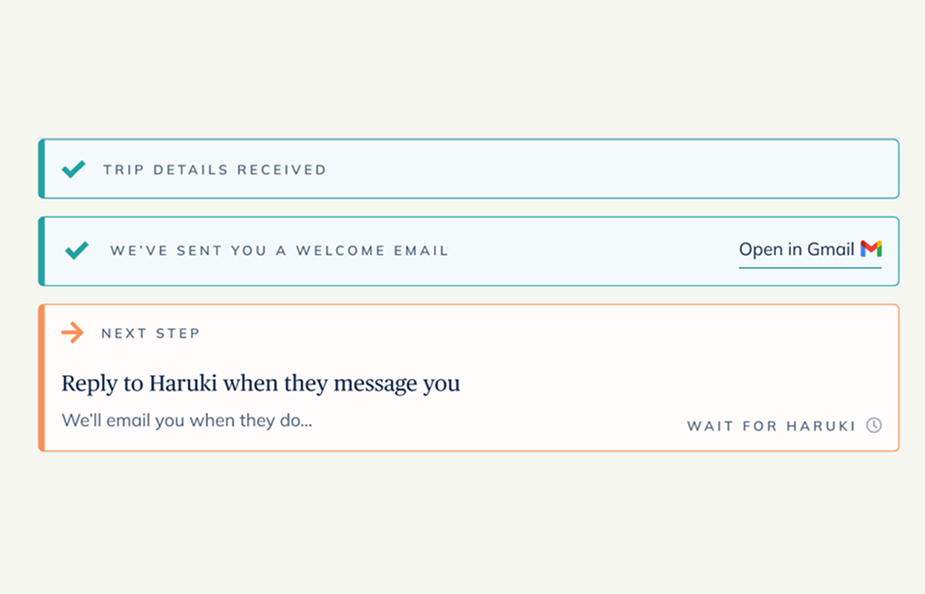
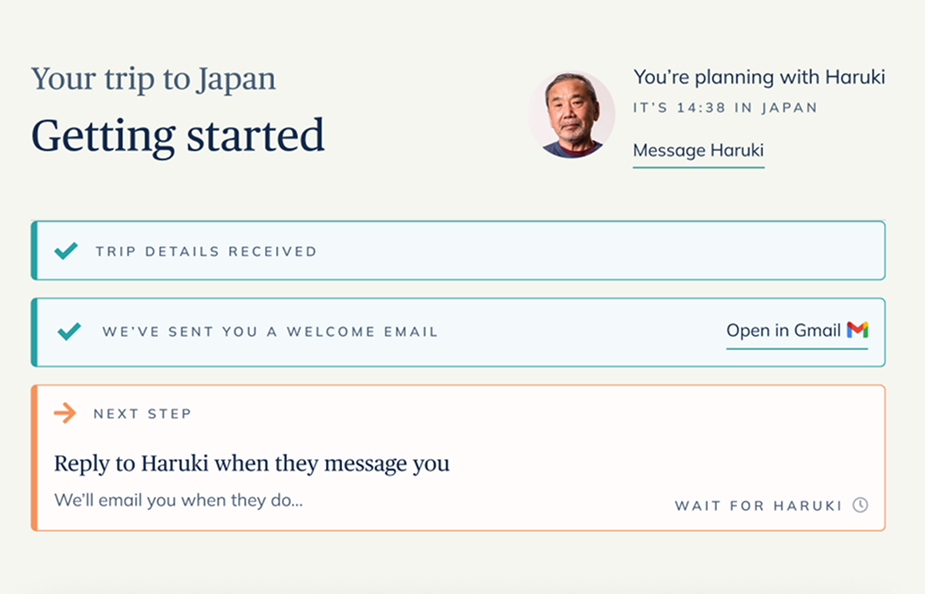
Nearly there

diff --git a/src/content/work/onboarding-and-expectation-setting.md b/src/content/work/onboarding-and-expectation-setting.md
@@ -2,10 +2,10 @@
 metaTitle: 'Onboarding and expectation setting'
 metaDescription: 'An ambitious project to help instigate engaging conversations between customers and local experts, getting them off to a positive start and setting the customer up for success.'
 title: 'Increasing user engagement through clear onboarding and expectation setting'
-cover: ''
-coverAlt: ''
+cover: './onboarding-hero.png'
+coverAlt: 'Mobile designs for a new onboarding experience'
 intro: |
-  If you want to travel to Japan (for example), TravelLocal connects you with a local travel expert right there in Tokyo to plan your trip. At its best you make a personal connection with someone local and have a more authentic travel experience. However when that conversation doesn’t get off to a good start and customers go quiet, the local expert is left feeling disengaged and the customer underserved.
+  Say you're planning a trip somewhere, Japan for example. TravelLocal would connect you with a local travel expert right there in Tokyo to plan your trip. At its best you make a personal connection with someone local and have a more authentic travel experience. However when that conversation doesn’t get off to a good start and customers go quiet, the local expert is left feeling disengaged and the customer underserved.
   
   I lead product design in an ambitious project to help instigate engaging conversations between customers and local experts, getting them off to a positive start and setting the customer up for success.
 introPreheading: 'Challenge'
@@ -44,84 +44,98 @@ takeaways: [
 
 ## Business challenge and North Star
 
-As TravelLocal’s acquisition model matured and more users were finding them, so did the amount of customers submitting their travel preferences and thus getting connected with a local expert. The expert then kicks off the conversation by messaging customers manually via the TravelLocal platform.
+As TravelLocal’s acquisition model matured and more travellers were finding them, so did the amount of customers submitting their travel preferences and thus getting connected with a local expert. The expert then kicks off the conversation by messaging customers manually via the TravelLocal platform.
 
-<mark>I defined this customer - local expert connection as the first major milestone in the high-level customer journey and therefore of key importance.</mark>
+<mark>The first step was to understand this customer - local expert connection as the first major milestone in the high-level customer journey and therefore of key importance.</mark>
 
 ![The first major milestone in the high-level customer journey](./onboarding-milestone.png)
 *The first major milestone in the high-level customer journey*
 
 Working with the Head of Product we defined an important dynamic at the heart of TravelLocal’s customer experience. Because the local expert is a real person with limited time and energy, unlike traditional SasS products TravelLocal can’t onboard limitless customers if they’re inactive. Local experts would frankly waste their time and the partnerships would strain. <mark>Improving top-of-funnel acquisition rates alone would not be enough to scale the company sustainably - the customer engagement rate needed to increase.</mark>
 
-🌟 Our North Star objective was to increase the percentage of customers who sent three messages to their local expert
+🌟 <mark>We set our North Star objective as increasing this engagement rate.</mark>
 
 We chose to measure engagement as the point where a customer sent three messages. Analysing request data revealed a significant increase in the propensity to book when a customer had sent three customer messages. This represented some meaningful engagement above just an exchanging of pleasantries.
 
 We defined two main guardrails…
-1. Increase the engagement rate without reducing the number of connected customers.
+1. Increase the engagement rate _without_ reducing the number of connected customers - the most sensitive of company metrics.
 2. Focus our work on product design more so than service design which, although impactful, was out of scope at the time.
 
 ## Discovering why customers go quiet
-My first goal was to understand why customers weren’t replying to local experts.
+<mark>My first goal was to understand why customers weren’t replying to local experts.</mark>
 
-Initial sanity check investigations with product managers and engineers ruled out technical errors; customers were technically able to send a successful message, no problems there.
+Initial sanity check investigations with product managers and engineers ruled out technical errors; customers were technically able to send successful messages, so no problems there.
 
-Ideally I’d have been able to speak with inactive customers to ask why they hadn’t responded. Of course, by definition of them being unengaged that’s a dead end, so I needed to find answers in the user experience leading up to the moment of inactivity.
+Ideally I’d have been able to speak with inactive customers to ask why they hadn’t responded. Of course, by definition of them being unengaged that’s a dead end, so I needed to find answers higher up the funnel in the user experience leading to the moment of inactivity.
 
 <mark>I held qualitative user research sessions with 5 participants who were new to TravelLocal.</mark> I observed them moving through the current onboarding process asking questions as we went. My goal was to better understand their motivations, feelings and uncertainties.
 
-![Holding a user research session with a customer](./onboarding-amanda.png)
-*Holding a user research session with a customer*
+![Holding a user research session with a customer, going through the current flow](./onboarding-amanda.png)
+*Holding a user research session with a customer, going through the current flow*
 
 Using the Atomic Research model for recording UX learnings I broke customer feedback down into its constituent parts; experiments, facts, insights and conclusions. These were recorded, tagged and organised in our research repository for future discoverability.
 
-### Customer insights from the current experience
+### Customer insights
 
 <ul class="customer-insights">
   <li class="customer-insight">
-    <p class="title">Uncertainty of what happened and next step</p>
+    <p class="title">😕 Uncertainty of what happened and next step</p>
     <p class="quote">"Is that it? What do I do now?"</p>
-    <p class="summary">Customers didn’t understand what happened and what they needed to do next. They were left feeling underwhelmed and uncertain.</p>
+    <p class="summary">Customers didn’t understand what happened and what they needed to do next. They were left feeling underwhelmed and uncertain. This decreased user motivation right from the start.</p>
   </li>
   <li class="customer-insight">
-    <p class="title">Identity of the person contacting them</p>
-    <p class="quote">“I presume the TravelLocal person in the photo will contact me”</p>
-    <p class="summary">Customers were uncertain who was going to contact them and why. They wrongly presumed it would be someone from TravelLocal and so missed the value proposition of the local experts.</p>
+    <p class="title">🕵♀ Identity of the person contacting them</p>
+    <p class="quote">"I presume the TravelLocal person in the photo will contact me"</p>
+    <p class="summary">Customers were uncertain who was going to contact them and why, leading to mistrust the process. They wrongly presumed it would be someone from TravelLocal and so missed the value proposition of the local experts. When they did get it, that was the "ah-ha" moment.</p>
   </li>
   <li class="customer-insight">
-    <p class="title">Method of communication</p>
-    <p class="quote">“How will they contact me? Will they email or phone?”</p>
-    <p class="summary">Customers weren’t sure how they’d be contacted which added to the uncertainty of what to expect next and decreased trust in the process.</p>
+    <p class="title">📢 Method of communication</p>
+    <p class="quote">"How will they contact me? Will I get an email?"</p>
+    <p class="summary">Customers weren’t sure how they’d be contacted which added to the uncertainty of what to expect next, decreasing trust and motivation.</p>
   </li>
   <li class="customer-insight">
-    <p class="title">Timing of communication</p>
-    <p class="quote">“When will they call? Timing is everything”</p>
+    <p class="title">🕑 Timing of communication</p>
+    <p class="quote">"When will they call? Timing is everything"</p>
     <p class="summary">Customers didn’t understand when they’d be contacted and had expectations of it being quick. Some were anxious if it would be a suitable time or not.</p>
   </li>
 </ul>
 
-I shared these insights with the wider team and company, both in write-ups, Miro boards and video clips of the research sessions so team members could engage with the level of detail they needed to. Being able to show company leadership these customers actually reacting to the product played a huge role in aligning teams internally.
+I shared these insights with the wider team and company, both in write-ups, Miro boards and video clips so team members could engage with the level of detail they needed to. Being able to show company leadership these customers actually reacting to the product played a huge role in aligning teams internally.
 
 ## Reviewing the current experience
 We’d inherited this user experience during the company’s merger a couple of years previous so I was keen to apply a critical eye using what I knew from previous customer research as well as the updated brand, market offering and product vision.
 
 Here's the old confirmation page, as it was before my work on the project...
 
-<iframe src="https://embed.figma.com/proto/XnQlWbxcx4PVAVtMA74uIM/simseneca.design?page-id=0%3A1&node-id=1292-1120&viewport=-1953%2C138%2C0.29&scaling=scale-down-width&content-scaling=fixed&starting-point-node-id=1292%3A1120&embed-host=share" allowfullscreen></iframe>
+<iframe src="https://embed.figma.com/proto/XnQlWbxcx4PVAVtMA74uIM/simseneca.design?page-id=0%3A1&node-id=1292-1120&viewport=-1953%2C138%2C0.29&scaling=scale-down-width&content-scaling=fixed&starting-point-node-id=1292%3A1120&embed-host=share&hide-ui=1"></iframe>
 
 There were many improvement opportunities just by applying good UX and design principles, but those aside <mark>I defined a few broad, key themes for improvement.</mark>
 
-1. **Buried progress confirmation and next steps:** The page was at the end of a stepped form flow but visually didn’t change much to communicate its completion. The next steps were unclear, with the customer having to infer and presume them rather than them being explicit.
-2. **Unclear hierarchy of information:** It was unclear what the customer should take most notice of. All information seemed equally important with a lack of signposting.
-3. **Lack of visibility of the local expert:** The inclusion of Hayley, a TravelLocal employee, meant that it’s TravelLocal who are the most visible, not the local expert who the customer will actually be speaking with.
-4. **Uninspiring success moment:** This is the first major milestone in the TravelLocal customer experience and should be the point at which customer enthusiasm is high. Other than one exclamation mark there’s nothing to celebrate this moment and it's generally visually uninspiring.
+<ol class="customer-insights">
+  <li class="customer-insight">
+    <p class="title">🔍 Buried progress confirmation and next steps</p>
+    <p class="summary">The page was at the end of a stepped form flow but visually didn’t change much to communicate its completion. The next steps were unclear, with the customer having to infer and presume them rather than them being explicit.</p>
+  </li>
+  <li class="customer-insight">
+    <p class="title">🪧 Unclear hierarchy of information</p>
+    <p class="summary">It was unclear what the customer should take most notice of. All information seemed equally important with a lack of signposting.</p>
+  </li>
+  <li class="customer-insight">
+    <p class="title">🥸 Lack of visibility of the local expert</p>
+    <p class="summary">The inclusion of Hayley, a TravelLocal employee, meant that it’s TravelLocal who are the most visible, not the local expert who the customer will actually be speaking with.</p>
+  </li>
+  <li class="customer-insight">
+    <p class="title">🤷♀ Uninspiring success moment</p>
+    <p class="summary">This should be a super high point of customer enthusiasm. Other than one exclamation mark there’s nothing to celebrate this moment and it's generally visually uninspiring. This isn't getting me excited about my trip!</p>
+  </li>
+</ol>
 
 ## Hitting a local maximum
 As the project progressed and internal conversations continued it became clear that there was an opportunity for bigger change. The company, its design maturity, brand and tech stack had taken huge steps forward in the years since the current experience had been built and it all needed realigning.
 
 Whilst often a riskier approach best avoided, <mark>the team decided that strategically now was the time to make some broader changes</mark>, allowing us to establish a better foundation from which to make future improvements.
 
-Leading product design through a company merger where we inherited legacy user experiences has often prompted the question “are we at a local maximum?” <mark>I’ve been heavily involved in balancing evolution and revolution</mark> and have helped guide that process through highlighting user insights, bringing a fresh perspective and applying the long view to the product vision.
+Leading product design through a company merger where we inherited legacy user experiences has often prompted the question "are we at a local maximum?" <mark>I’ve been heavily involved in balancing evolution and revolution</mark> and have helped guide that process through highlighting user insights, bringing a fresh perspective and applying the long view to the product vision.
 
 ### De-risking for launch
 <mark>With a larger change it was important to de-risk the launch.</mark> We would do this in a few ways.
@@ -133,7 +147,7 @@ Leading product design through a company merger where we inherited legacy user e
 5. Work fast to retain a positive impact/effort outcome
 
 ## Turning problems into solutions
-<mark>Moving into the solution space meant turning customer insights into problem statements, then turning them on their head into open “how might we” questions.</mark> This revealed five design opportunities.
+<mark>Moving into the solution space meant turning customer insights into problem statements, then turning them on their head into open "how might we" questions.</mark> This revealed five design opportunities.
 
 1. __How might we__ help customers understand what just happened…
 2. __How might we__ help customers understand what happens next…
@@ -141,16 +155,17 @@ Leading product design through a company merger where we inherited legacy user e
 4. __How might we__ help customers understand how they’ll be contacted…
 5. __How might we__ help customers understand when they’ll be contacted…
 
-I then created “bets” from these, with the <mark>confidence that we were solving for observed customer problems</mark>. The phrasing of a “bet” helped to hold these loosely as unproven ideas, not validated solutions. I mapped this process onto Opportunity Solution Trees in Miro to help structure and communicate the thinking.
+I then created "bets" from these, with the <mark>confidence that we were solving for observed customer problems</mark>. The phrasing of a "bet" helped to hold these loosely as unproven ideas, not validated solutions. I mapped this process onto Opportunity Solution Trees in Miro to help structure and communicate the thinking.
 
-**Opportunity tree**
+![A high-level selection of the bets we mapped out](./onboarding-tree.png)
+*A high-level selection of the bets we mapped out*
 
 ## Prototyping the new experience
 It became clear pretty quickly that the place for us to concentrate our design efforts was in the immediate experience after a customer had submitted their trip preferences and been connected with a local expert.
 
 <mark>Getting that initial milestone and onboarding experience right was key to setting the customer up for success.</mark>
 
-Moving through some of the bets we had most confidence in, I started wireframing before moving into mid-fidelity prototypes and landing on a testable MVP.
+Moving through the bets we had both confidence in and knew to be reasonably feasible, I started wireframing before moving into mid-fidelity prototypes and landing on a testable MVP.
 
 ![Early scribbles on a whiteboard](./onboarding-whiteboard.jpg)
 *Early scribbles on a whiteboard*
@@ -161,30 +176,35 @@ Moving through some of the bets we had most confidence in, I started wireframing
 ![Mid-fidelity rototyping various ideas](./onboarding-prototyping.png)
 *Mid-fidelity prototyping various ideas*
 
-Ultimately this is where I landed...
+✨ Ultimately these prototypes were where I landed...
 
-<iframe src="https://embed.figma.com/proto/XnQlWbxcx4PVAVtMA74uIM/simseneca.design?page-id=0%3A1&node-id=1314-2416&viewport=-4027%2C229%2C0.38&scaling=scale-down-width&content-scaling=fixed&starting-point-node-id=1314%3A2416&embed-host=share" allowfullscreen></iframe>
+<div class="iframe-group">
+  <iframe class="desktop" src="https://embed.figma.com/proto/XnQlWbxcx4PVAVtMA74uIM/simseneca.design?page-id=0%3A1&node-id=1314-2416&viewport=-4027%2C229%2C0.38&scaling=scale-down-width&content-scaling=fixed&starting-point-node-id=1314%3A2416&embed-host=share" allowfullscreen></iframe>
+  <iframe class="mobile" src="https://embed.figma.com/proto/XnQlWbxcx4PVAVtMA74uIM/simseneca.design?page-id=0%3A1&node-id=1518-1696&viewport=-3824%2C196%2C0.33&scaling=scale-down-width&content-scaling=fixed&starting-point-node-id=1518%3A1696&embed-host=share&hide-ui=1"></iframe>
+</div>
+
+A few highlights...
 
 <ul class="design-highlights">
   <li class="design-highlight">
     <img src="/src/content/work/onboarding-modal.png" alt="Confirmation modal" />
     <div class="design-highlight__inner">
-      <p class="title">Celebratory confirmation modal</p>
-      <p class="summary">Separating the information out into two steps. First we confirm what's happened and what to expect next before setting the user up for the next phase of onboarding.</p>
+      <p class="title">Celebratory pause and heirarchy of information</p>
+      <p class="summary">Separating the information out gave each phase space to breath and be understood. First we confirm what's just happened and then, via the proposition reiforcing "Meet your local expert" button, the customer moves into the next phase of onboarding.</p>
+    </div>
+  </li>  
+  <li class="design-highlight">
+    <img src="/src/content/work/onboarding-toasts.png" alt="Confirmation toasts" />
+    <div class="design-highlight__inner">
+      <p class="title">Confirmation notifications and clear next step</p>
+      <p class="summary">A timeline of events reasurring customers what has happened whilst clearly explaining the next step. We also have what the time is in Japan to subtly reinforce the proposition that local experts are actually there.</p>
     </div>
   </li>
   <li class="design-highlight">
     <img src="/src/content/work/onboarding-meet.png" alt="Meeting the local expert" />
     <div class="design-highlight__inner">
       <p class="title">Properly introducing the local expert</p>
-      <p class="summary">A really important addition to properly introduce the local expert. This also makes a neat place to confirm the user's email address, reinforcing the proposition and next step.</p>
-    </div>
-  </li>
-  <li class="design-highlight">
-    <img src="/src/content/work/onboarding-toasts.png" alt="Confirmation toasts" />
-    <div class="design-highlight__inner">
-      <p class="title">Confirmation toasts and clear next step</p>
-      <p class="summary">A dynamic timeline of events reasurring customers what has happened whilst clearly explaining the next step. "Open in Gmail" only appears for @gmail email addresses.</p>
+      <p class="summary">A really important addition is to properly introduce the local expert and build trust. This also makes a neat place to confirm the user's email address, reinforcing the proposition and next step.</p>
     </div>
   </li>
   <li class="design-highlight">
@@ -196,30 +216,70 @@ Ultimately this is where I landed...
   </li>  
 </ul>
 
-This was designed completely responsively of course. Here's the mobile version...
-
-RESPONSIVE VERSION
-
 ## Testing the prototype with users
-To increase our confidence levels I held another 5 qualitative research sessions with users, observing them as they used the new prototype and being curious as to their feelings.
+<mark>To increase our confidence levels I held more qualitative research sessions with users</mark>, observing them as they used the new prototype and being curious as to their feelings.
 
-The feedback was generally really positive and I was particularly reassured that customers felt that the “how might we’s” we’d set out to solve were being addressed.
+The feedback was generally really positive and I was particularly reassured that customers felt that the "how might we’s" we’d set out to solve were being addressed.
 
-**Image of sessions**
+![Testing the prototyping with another customer](./onboarding-john.jpg)
+*Testing the prototyping with another customer*
 
-Our main learnings were…
+![Writing up the user feedback in Miro](./onboarding-post-its.png)
+*Writing up the user feedback in Miro*
 
-**Example quotes of customers proving the how might we’s were being addressed. Could include images**
+Some top feedback related to our "how might we" statements...
+
+<ul class="customer-insights">
+  <li class="customer-insight">
+    <p class="title">...what just happened</p>
+    <p class="quote">"That's exactly what I expected"</p>
+    <p class="quote">"I feel comforted and confident. I like this travel company"</p>
+    <p class="summary">👍</p>
+  </li>
+  <li class="customer-insight">
+    <p class="title">...what happens next</p>
+    <p class="quote">"I realise I'm going to be receiving a personal email from my travel expert"</p>
+    <p class="quote">"I would wait to hear back from my travel expert"</p>    
+    <p class="summary">👍</p>
+  </li>
+  <li class="customer-insight">
+    <p class="title">...introduce the local expert</p>
+    <p class="quote">"I appreciated getting to know my travel expert better"</p>
+    <p class="quote">"It feels safe because I've seen him"</p>
+    <p class="summary">👍</p>
+  </li>
+  <li class="customer-insight">
+    <p class="title">...how they'll be contacted</p>
+    <p class="quote">"Written messages appeal to me"</p>
+    <p class="quote">"That's our tour guide, now we can email each other"</p>
+    <p class="summary">👍</p>
+  </li>
+  <li class="customer-insight">
+    <p class="title">...when they'll be contacted</p>
+    <p class="quote">"2 working days, that's nice to know"</p>
+    <p class="quote">"I knew right away that it would take two days to hear back"</p>
+    <p class="summary">👍</p>
+  </li>
+  <li class="customer-insight">
+    <p class="title">General positive vibes!</p>
+    <p class="quote">"I could not give better praise"</p>
+    <p class="quote">"I cannot say how much I really like this site"</p>
+    <p class="quote">"It was such a great page to land on"</p>
+    <p class="summary">👍👍</p>
+  </li>
+</ul>
+
+This gave us great encouragement to continue into the development phase.
 
 ### Slimming down to an MVP
 In line with our de-risking strategy, I worked with product managers, engineers and content marketing to figure out an MVP that would be viable to launch initially. Our goal was to keep the build lean but still provide a quality experience for customers; enough for us to learn from.
 
-<mark>Here we really focussed on outcome over output.</mark> As tempting as it is to build everything, it was a core value of our product team to ensure we were building the right things and celebrating the user and business impact.
+<mark>Here we really focussed on outcome over output.</mark> As tempting as it is to build everything, it was a core value of our product team to ensure we were building the right things and celebrating the user and business impact. <mark>That meant delivering value to users early and validating our work.</mark>
 
-We agreed to hold back on a couple of the more complex functionality additions as well as some content such as the local expert welcome videos that would require too much effort to pull together for launch. We would come back round to them in future iterations and prove their value in more contained experiments.
+We agreed to hold back on a couple of the more complex functionality additions as well as some content that would require too much effort to pull together for launch. We would come back to them in future iterations and prove their value in more contained experiments.
 
 ## Implementation with engineering
-Our frontend workflow is built on the design system so I modularised my Figma designs, defining any new components and states and evolving any that pre-existed.
+Our frontend workflow is built on [the design system](./design-system) so I modularised my Figma designs, defining any new components and states and evolving any that pre-existed.
 
 <mark>I collaborated closely with engineering to communicate my design intentions and figure out the best way to translate this into the codebase.</mark> When it came to development myself and engineering were speaking daily and I chipped in and built a couple of components myself to help with velocity.
 

diff --git a/src/content/work/design-system.md b/src/content/work/design-system.md
@@ -1,7 +1,7 @@
 ---
 metaTitle: 'Design systems'
-metaDescription: 'Creating, maintaining and evolving a design system serving 40k+ visitors'
-title: 'Creating, maintaining and evolving a design system serving 3M+ users'
+metaDescription: 'Creating, maintaining and evolving a design system serving 5M+ users'
+title: 'Creating, maintaining and evolving a design system serving 5M+ users'
 cover: './design-system-hero.png'
 coverAlt: 'A selection of design system components'
 intro: |
